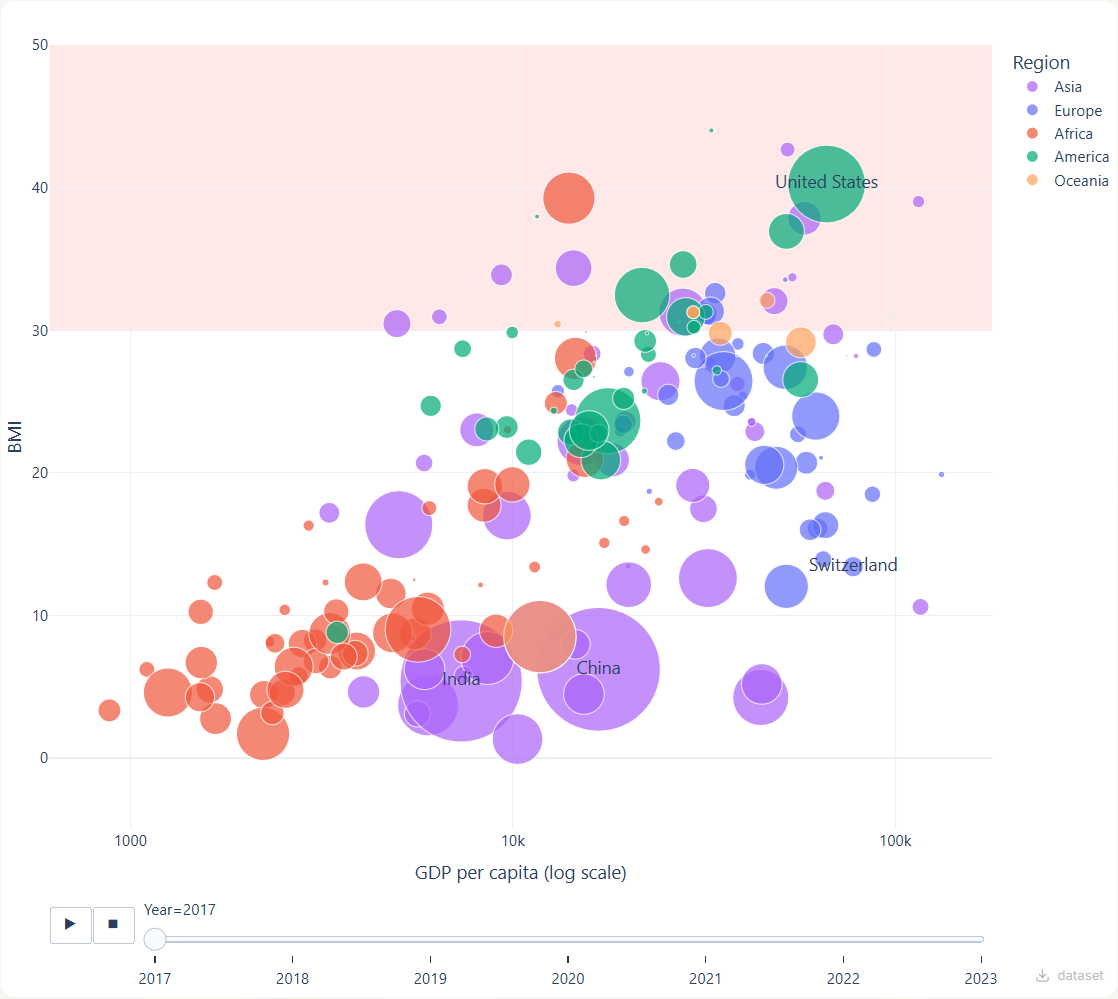
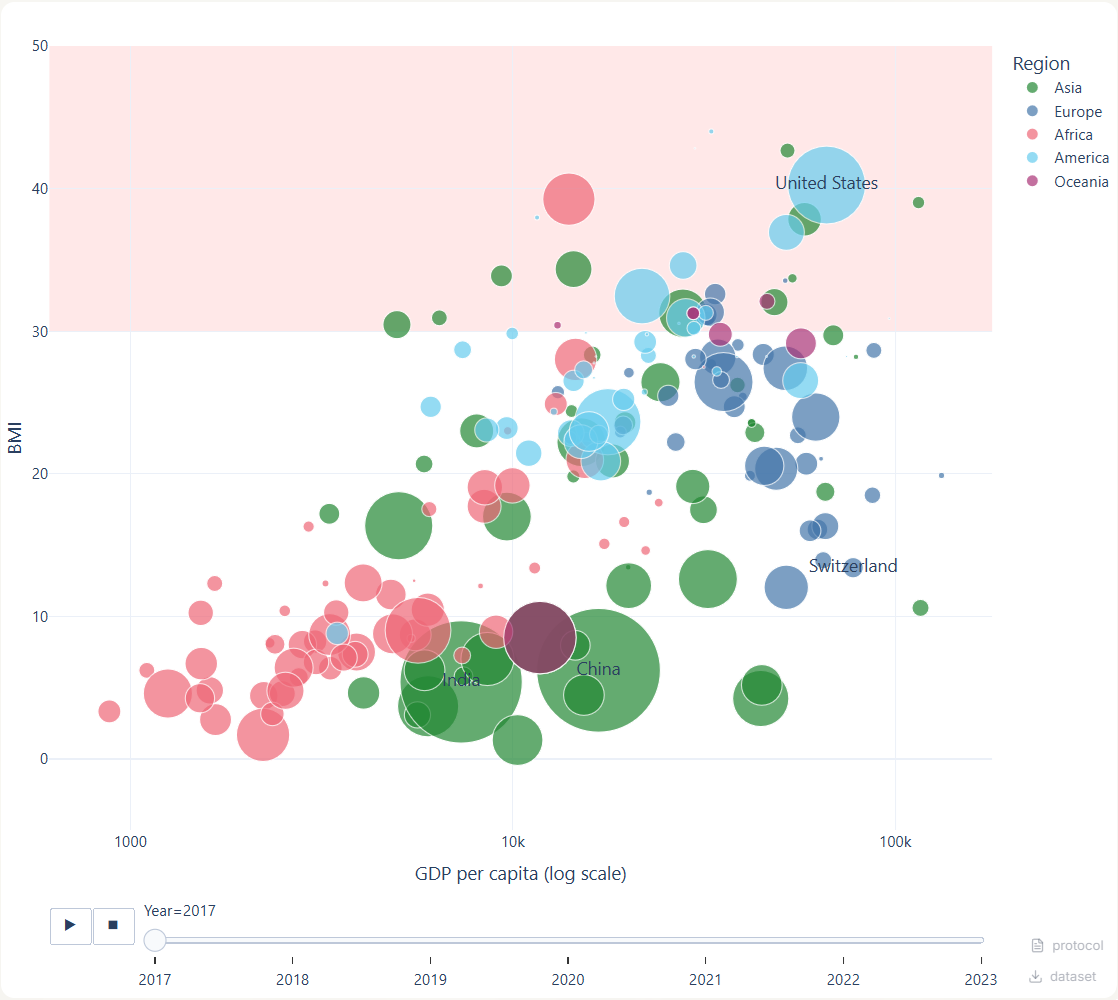
professor feedback fixes

diff --git a/frontend/placeholder-page-main/src/pages/Index.tsx b/frontend/placeholder-page-main/src/pages/Index.tsx
@@ -43,7 +43,7 @@ const regionData = [
         subtitle: "Affordability Crisis",
         color: "hsl(353, 80%, 67%)",
         content: [
-            "Over 70% are unable to afford a nutrient-adequate diet—the highest burden globally.",
+            "Over 70% are unable to afford a nutrient-adequate diet-the highest burden globally.",
             "Supply chain inefficiencies and conflict raise prices and reduce reliable access.",
             "Diets rely heavily on starchy staples; nutrient-dense foods are far more expensive.",
         ],
@@ -73,7 +73,7 @@ const regionData = [
         subtitle: "Logistics Split",
         color: "hsl(326, 54%, 43%)",
         content: [
-            "Regional averages are strongly influenced by Australia and New Zealand—major food producers.",
+            "Regional averages are strongly influenced by Australia and New Zealand-major food producers.",
             "In Pacific Island nations, imported processed foods are cheap while fresh produce is expensive.",
             "Climate shocks and shipping disruptions disproportionately raise the cost of fresh foods.",
         ],
@@ -107,10 +107,10 @@ const PROTOCOLS: Record<string, ProtocolData> = {
     wealthBmi: {
         title: "Wealth vs. BMI (bubble chart)",
         timestamp: "2017–2023",
-        dataSourceText: "TODO",
-        dataSourceHref: "https://ourworldindata.org/",
+        dataSourceText: "GDP per capita",
+        dataSourceHref: "https://ourworldindata.org/grapher/gdp-per-capita-worldbank?v=1&csvType=full&useColumnShortNames=false",
         datasetText: "Download the dataset and the metadata",
-        datasetHref: `${API_BASE}/download/data_filled_neighbors.csv`,
+        datasetHref: `${API_BASE}/download/dataset1.zip`,
         steps: [
             "Load the dataset (data_filled_neighbors.csv).",
             'Filter out the aggregate "World" entity.',
@@ -126,10 +126,10 @@ const PROTOCOLS: Record<string, ProtocolData> = {
     regionalOverview: {
         title: "Regional Overview (choropleth map)",
         timestamp: "2017–2023",
-        dataSourceText: "TODO",
-        dataSourceHref: "https://ourworldindata.org/",
+        dataSourceText: "Daily cost of a healthy diet",
+        dataSourceHref: "https://ourworldindata.org/grapher/cost-healthy-diet?v=1&csvType=full&useColumnShortNames=false",
         datasetText: "Download the dataset and the metadata",
-        datasetHref: `${API_BASE}/download/data_filled_neighbors.csv`,
+        datasetHref: `${API_BASE}/download/dataset1.zip`,
         steps: [
             "Load the dataset (data_filled_neighbors.csv).",
             'Filter out the aggregate "World" entity.',
@@ -146,10 +146,10 @@ const PROTOCOLS: Record<string, ProtocolData> = {
     obesityTrend: {
         title: "Obesity Trend (line chart)",
         timestamp: "2017–2023",
-        dataSourceText: "TODO",
-        dataSourceHref: "https://ourworldindata.org/",
+        dataSourceText: "Obesity in adults",
+        dataSourceHref: "https://ourworldindata.org/grapher/share-of-adults-defined-as-obese?tab=line",
         datasetText: "Download the dataset and the metadata",
-        datasetHref: `${API_BASE}/download/obesity.csv`,
+        datasetHref: `${API_BASE}/download/dataset2.zip`,
         steps: [
             "Load the dataset (obesity.csv).",
             "Create a country → Region lookup from the main dataset and merge it into obesity.csv.",
@@ -484,7 +484,7 @@ const Index = () => {
                                 The Health Impact
                             </h3>
                             <p className="font-body text-muted-foreground text-center">
-                                Correlating socio-economic inputs with health outcomes—obesity vs. undernutrition.
+                                Correlating socio-economic inputs with health outcomes-obesity vs. undernutrition.
                             </p>
                         </button>
                     </div>
@@ -517,8 +517,8 @@ const Index = () => {
                                 />
                                 <div className="relative">
                                     <ProtocolButton onClick={() => openProtocol(PROTOCOLS.wealthBmi)}/>
-                                    <DownloadButton url="/download/data_filled_neighbors.csv"
-                                                    filename="data_filled_neighbors.csv" label="dataset "/>
+                                    <DownloadButton url="/download/dataset1.zip"
+                                                    filename="dataset1.zip" label="dataset "/>
                                 </div>
                             </div>
                         </div>
@@ -642,8 +642,8 @@ const Index = () => {
                                     />
                                     <div className="relative">
                                         <ProtocolButton onClick={() => openProtocol(PROTOCOLS.regionalOverview)}/>
-                                        <DownloadButton url="/download/data_filled_neighbors.csv"
-                                                        filename="data_filled_neighbors.csv" label="dataset "/>
+                                        <DownloadButton url="/download/dataset1.zip"
+                                                        filename="dataset1.zip" label="dataset "/>
                                     </div>
                                 </div>
                             </div>
@@ -678,7 +678,7 @@ const Index = () => {
                                 />
                                 <div className="relative">
                                     <ProtocolButton onClick={() => openProtocol(PROTOCOLS.obesityTrend)}/>
-                                    <DownloadButton url="/download/obesity.csv" filename="obesity.csv"
+                                    <DownloadButton url="/download/dataset2.zip" filename="dataset2.zip"
                                                     label="dataset "/>
                                 </div>
                             </div>
@@ -695,8 +695,8 @@ const Index = () => {
                                 </p>
 
                                 <p className="mt-4 font-body text-base leading-relaxed text-muted-foreground">
-                                    That kind of near-linear growth points to long-term, structural drivers—food
-                                    environments, urban lifestyles, and gradual dietary change—rather than short,
+                                    That kind of near-linear growth points to long-term, structural drivers-food
+                                    environments, urban lifestyles, and gradual dietary change-rather than short,
                                     one-off
                                     events.
                                 </p>
@@ -737,7 +737,7 @@ const Index = () => {
                                     Understanding these interacting forces matters because it shifts the solution
                                     from{" "}
                                     <span className="text-primary">individual choice</span> to{" "}
-                                    <span className="text-primary">system design</span>—making healthy diets not only
+                                    <span className="text-primary">system design</span>-making healthy diets not only
                                     possible, but realistically accessible.
                                 </p>
                             </div>
@@ -761,7 +761,7 @@ const Index = () => {
                                 <div className="flex gap-4">
                                     <div className="w-1 rounded-full bg-accent shrink-0"/>
                                     <p className="font-body text-lg leading-relaxed text-muted-foreground">
-                                        The BMI vs GDP scatter shows a broad upward relationship—countries with higher
+                                        The BMI vs GDP scatter shows a broad upward relationship-countries with higher
                                         GDP
                                         per capita tend to sit at higher average BMI. At the same time, the spread among
                                         wealthy countries is large, which tells us that economic growth does not

diff --git a/backend/dash1.py b/backend/dash1.py
@@ -462,9 +462,8 @@ app3.layout = html.Div(
 )
 
 ALLOWED_DOWNLOADS = {
-    "data.csv",
-    "data_filled_neighbors.csv",
-    "obesity.csv",
+    "dataset1.zip",
+    "dataset2.zip"
 }
 
 @server.route("/download/<path:filename>")
